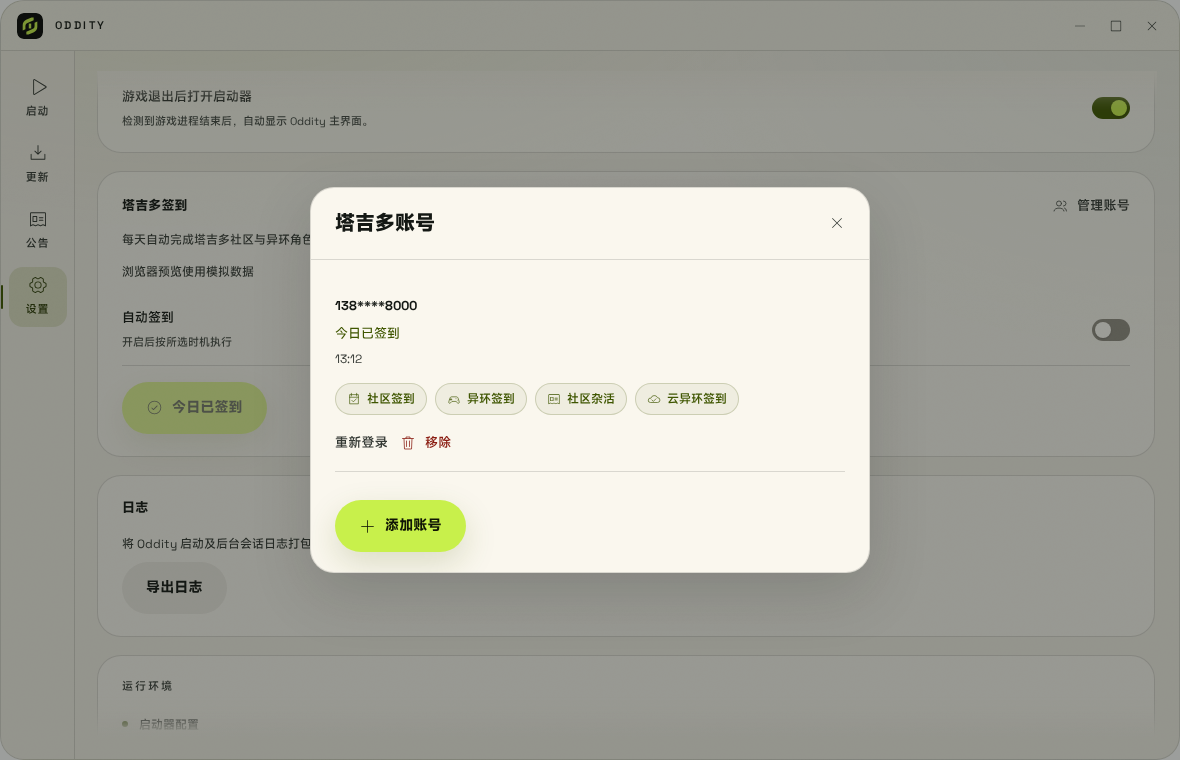
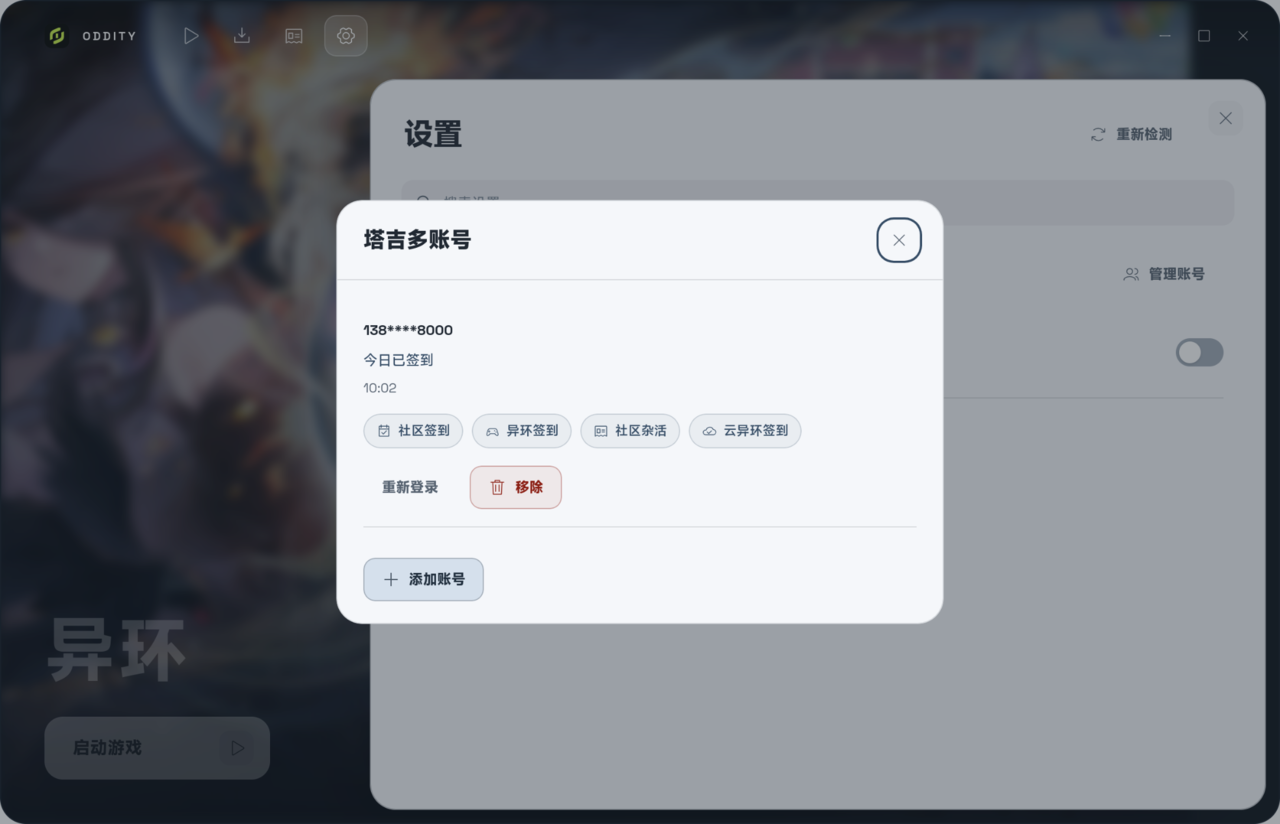
docs: 按新界面更新玩家文档 (#92)
重写设置分类、启动器导航、Proton 运行环境与应急模式的操作说明；替换为 1280 宽实机截图并新增公告页截图；补充官方美术素材声明。

diff --git a/ASSETS.md b/ASSETS.md
@@ -1,0 +1,25 @@
+# 美术素材声明
+
+Oddity 的源代码以 [GPL-3.0-or-later](LICENSE) 授权. 字体, 图标与游戏美术素材各自适用不同的授权, 不在源代码许可证的覆盖范围内.
+
+## 官方美术素材
+
+《异环》/ Neverness To Everness 的名称, 商标, 角色, 主视觉, 宣传图, 截图以及其他由官方发布的美术素材, 版权归其权利人所有.
+
+本仓库中的官方美术素材仅用于识别游戏, 展示 Oddity 界面和说明功能:
+
+- `docs/assets/` 下的界面截图包含从本机官方客户端取得的主页主视觉与公告图片.
+- Oddity 运行时会读取本机官方客户端的主页素材; 是否随仓库分发取决于具体文件.
+- 仓库中其他位置出现的官方游戏美术素材同样适用本节.
+
+这些素材不构成官方授权, 合作或背书. 除法律允许的引用外, 不应将官方美术素材用于商业用途或再次分发. 如果权利人认为仓库中的使用方式不当, 请通过 [Issues](https://github.com/LaT-SKY/Oddity/issues) 联系维护者移除.
+
+## 项目自制素材
+
+应用图标, 托盘图标, 标志, `hero-scene.svg` 及其导出的 jpg, mp4 与 webm 由本项目创作, 随源代码以 [GPL-3.0-or-later](LICENSE) 授权.
+
+这些素材与官方美术素材的授权范围分别适用, 不应混用.
+
+## 第三方素材
+
+字体与图标的许可证见[第三方组件](THIRD_PARTY.md).

diff --git a/docs/taygedo.md b/docs/taygedo.md
@@ -4,7 +4,7 @@
 
 ## 登录与账号管理
 
-1. 打开 **设置 → 塔吉多签到**, 点击 **立即登录**.
+1. 打开 **设置 → 账号与签到**, 点击 **立即登录**.
 2. 选择手机号密码登录或短信验证码登录.
 3. 登录后通过 **管理账号** 添加或移除账号.
 
@@ -14,7 +14,7 @@
 
 ![塔吉多账号管理](assets/taygedo-accounts.png)
 
-> 浏览器预览, 账号, 任务与奖励为模拟数据.
+> 实际运行截图, 手机号与账号状态为示例.
 
 ## 签到
 
@@ -50,7 +50,7 @@
 
 ## 体力与周本
 
-在 **启动** 页点击 **体力与周本** 打开游戏状态面板.
+在 **启动** 页点击右上角的玩家信息卡片, 打开游戏状态面板.
 
 可以查看体力, 周本剩余次数, 都市活力与今日活跃度, 并切换已登录账号.
 
@@ -58,7 +58,7 @@
 
 ![体力与周本面板](assets/taygedo-records.png)
 
-> 浏览器预览, 角色与数值为模拟数据. 游戏状态来自官方接口.
+> 实际运行截图, 角色与数值为示例. 游戏状态来自官方接口.
 
 ## 常见问题
 

diff --git a/THIRD_PARTY.md b/THIRD_PARTY.md
@@ -20,9 +20,14 @@ Rust 依赖见 [Cargo.lock](launcher/Cargo.lock), 许可证检查配置见 [deny
 
 ## 图像与素材
 
-内置背景为项目自制素材. 运行时可能读取本地官方启动器的主页素材.
+| 素材 | 位置 | 授权 |
+| --- | --- | --- |
+| 项目自制背景, 应用图标与标志 | `launcher/ui/public/assets/` | [GPL-3.0-or-later](LICENSE) |
+| 官方游戏美术素材 | 文档截图, 公告预览, 运行时读取的官方客户端素材 | 版权归权利人所有, 不适用 GPL |
 
-游戏名称, 商标和官方素材的权利归各自权利人.
+内置背景为项目自制素材. Oddity 会读取本机官方客户端的主页素材, 文档截图与公告预览中也包含官方游戏美术素材. 这些素材仅用于识别游戏和展示界面, 不属于 GPL 授权范围.
+
+官方素材的授权范围与移除方式见[美术素材声明](ASSETS.md).
 
 ## 塔吉多协议参考
 

diff --git a/docs/nix.md b/docs/nix.md
@@ -32,6 +32,6 @@ environment.systemPackages = [ oddity.packages.x86_64-linux.default ];
 
 ## 游戏环境
 
-Nix 包会提供 `umu-run`, `xdg-utils` 和 GStreamer 插件. Proton, Wine prefix 和游戏目录仍需按[安装指南](install.md#准备游戏环境)准备.
+Nix 包会提供 `umu-run`, `xdg-utils` 和 GStreamer 插件. Proton 和游戏目录仍需按[安装指南](install.md#准备游戏环境)准备; Wine prefix 由 Oddity 的运行环境管理.
 
-首次安装游戏资源后, 在设置中选择该区服的安装目录即可启动.
+首次安装游戏资源后, 在 **设置 → 游戏与启动** 中选择该区服的安装目录即可启动.

diff --git a/docs/gentoo.md b/docs/gentoo.md
@@ -22,4 +22,4 @@ pkexec emerge --ask games-util/umu-launcher
 
 ## 游戏环境
 
-Proton, Wine prefix 和游戏目录仍需按[安装指南](install.md#准备游戏环境)准备.
+Proton 和游戏目录仍需按[安装指南](install.md#准备游戏环境)准备; Wine prefix 由 Oddity 的运行环境管理.
